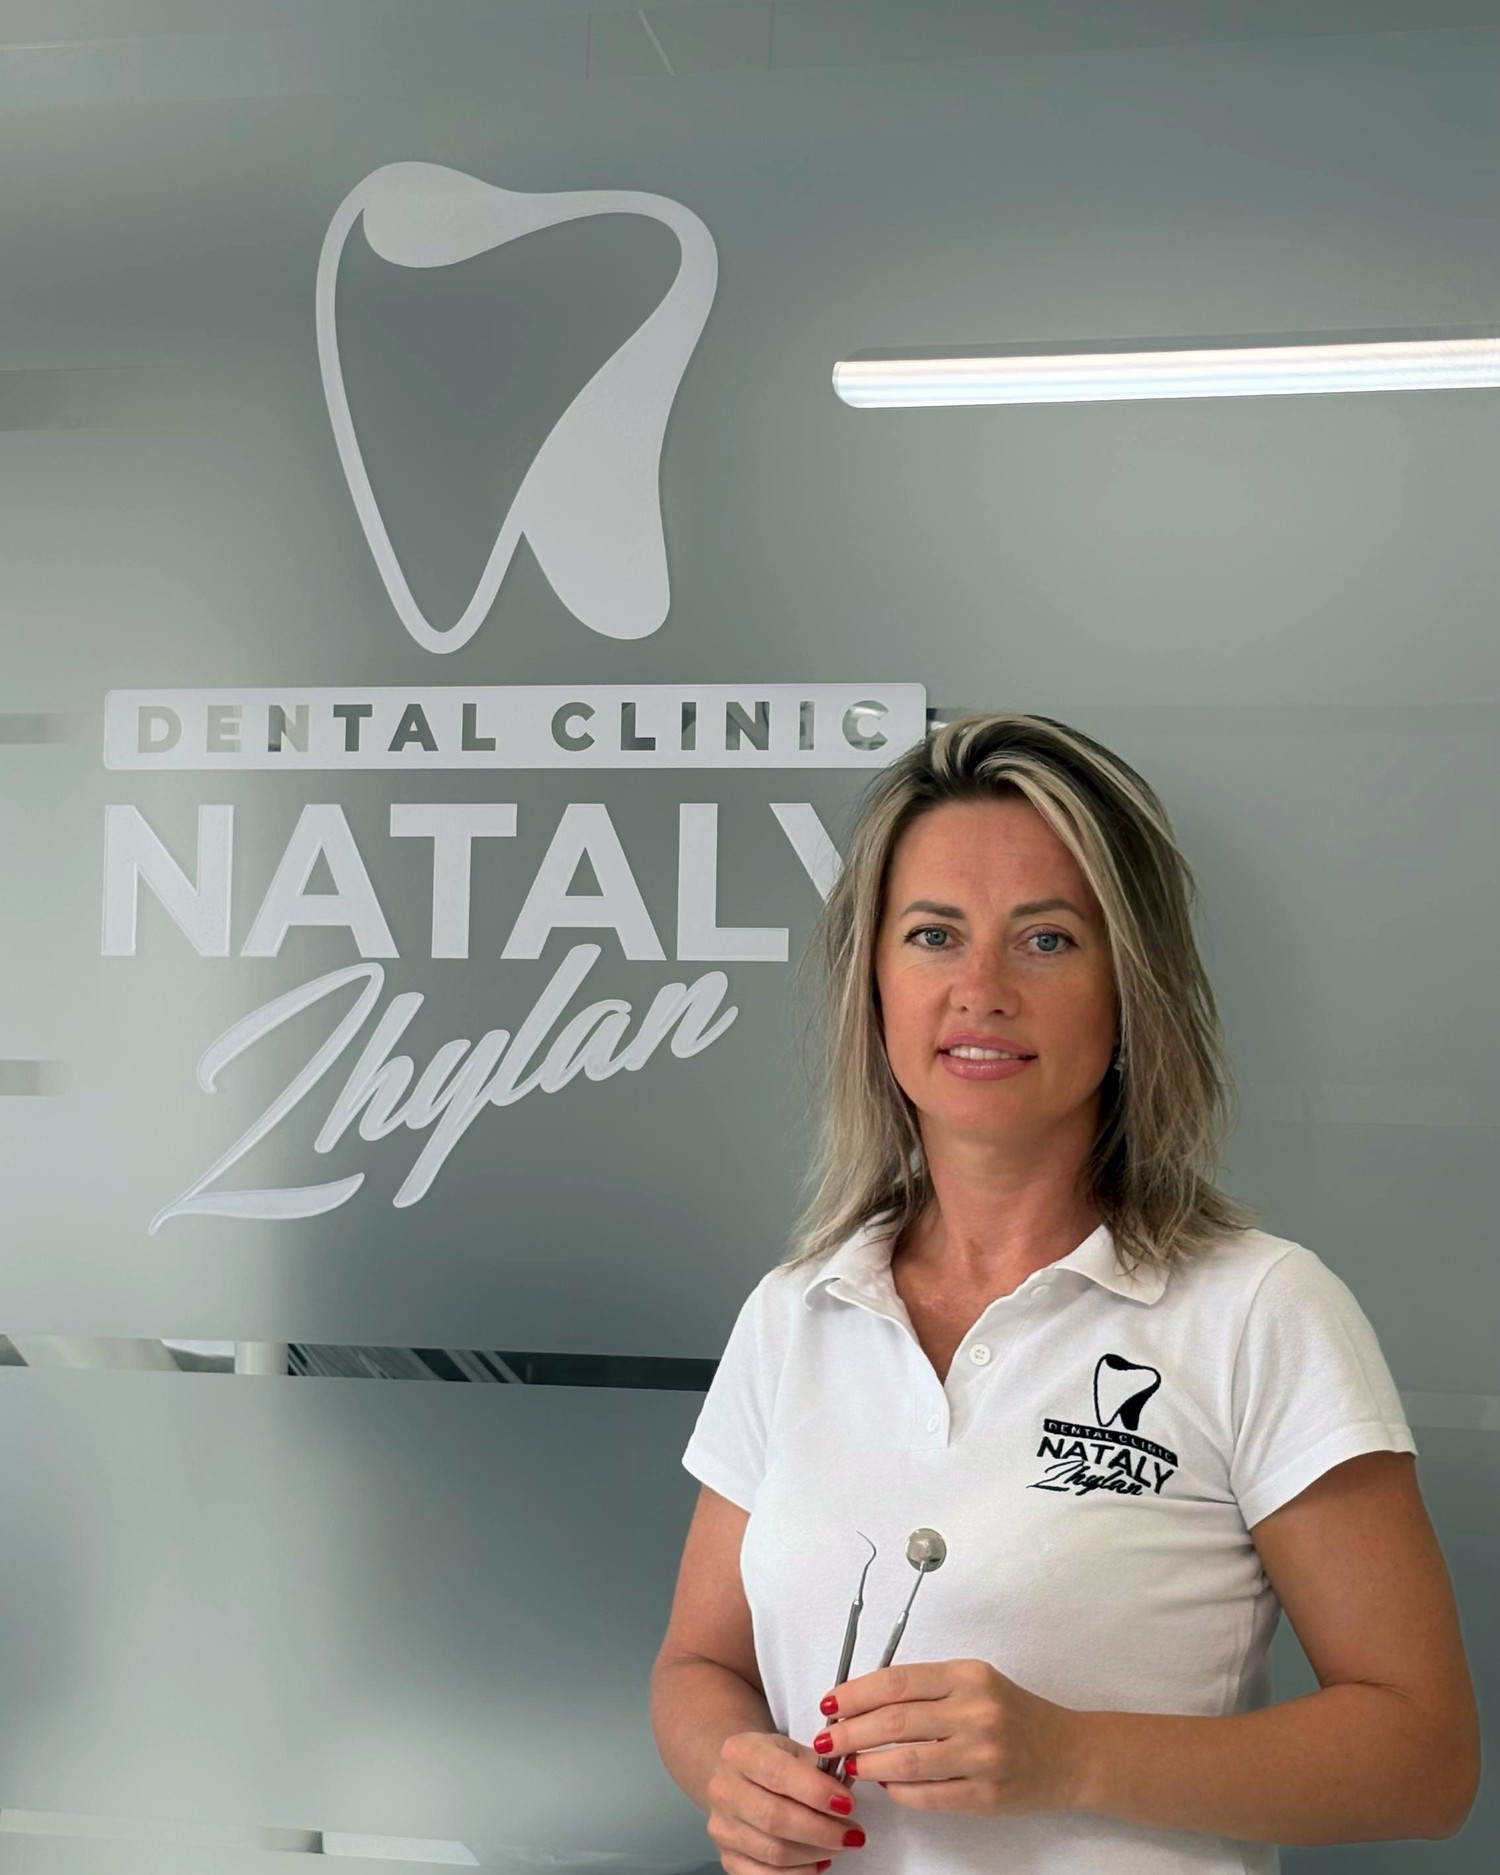
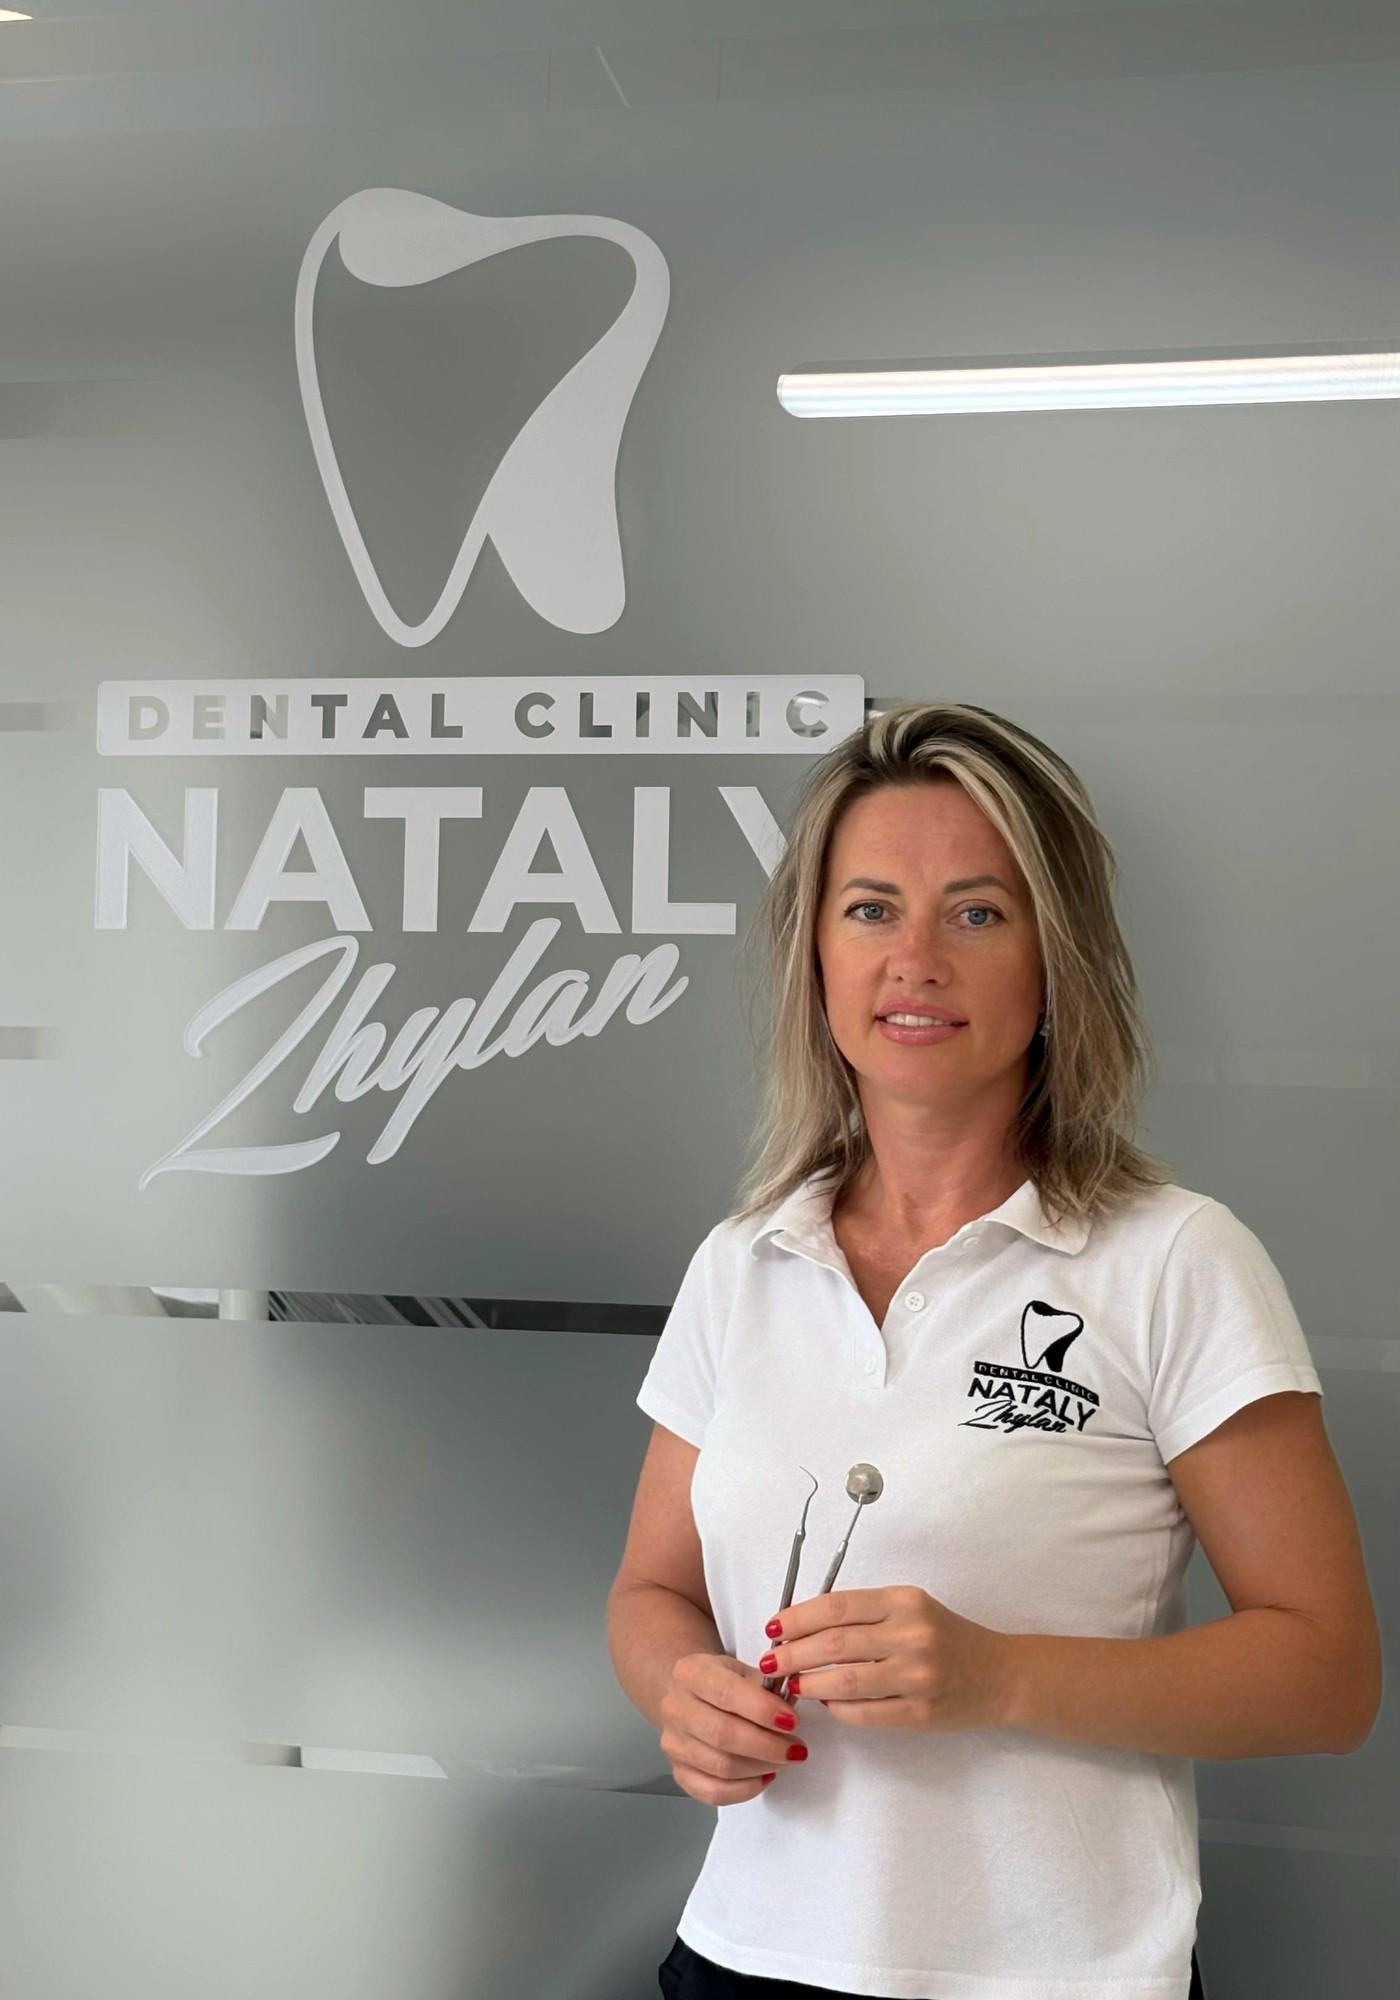
Ширший кадр на першому екрані, правки формулювань послуг
Фото перекадровано з оригіналу 2268×4032: замість 4:5 тепер 7:10
(1400×2000). У попередньому кадрі руки з інструментом опинялися за
межами знімка — тепер вони в кадрі повністю, разом із логотипом на
стіні та на поло. Рамка на сторінці змінена на ті самі пропорції,
на десктопі трохи вужча, щоб фото не переростало екран.

Формулювання за правками клініки: «Усі сучасні методи пломбування
кореневих каналів» → «Сучасні методи…», «Естетична художня
реставрація зубів» → «Художня реставрація зубів».

Картку для соцмереж перемальовано з новим кадром.

Claude-Session: https://claude.ai/code/session_0146WkEYk3Czcg6RxcMk6tHZ

diff --git a/src/components/sections/hero.tsx b/src/components/sections/hero.tsx
@@ -182,11 +182,13 @@ export function Hero() {
       </div>
 
       {/* ── The doctor ───────────────────────────────────
-          The frame keeps the photograph's own 4:5 at every width, so nothing
+          The frame keeps the photograph's own 7:10 at every width, so nothing
           is cropped: a fixed height used to swallow the bottom third of the
           picture on a phone and turn it into a 3:1 panorama on a desktop.
+          The file itself is a taller crop than before — at 4:5 her hands and
+          the instrument fell outside the frame.
           Full width on a phone, centred at its own size from lg. */}
-      <div className="relative mt-6 aspect-4/5 lg:mx-auto lg:mt-10 lg:w-[440px] lg:overflow-hidden lg:rounded-t-[28px] xl:w-[500px]">
+      <div className="relative mt-6 aspect-7/10 lg:mx-auto lg:mt-10 lg:w-[420px] lg:overflow-hidden lg:rounded-t-[28px] xl:w-[470px]">
         <Image
           src="/images/hero.jpg"
           alt={`${site.doctor} — лікар-стоматолог, ${site.name}`}
@@ -194,7 +196,7 @@ export function Hero() {
           /* The headline is the LCP element; this sits under it. */
           fetchPriority="low"
           quality={88}
-          sizes="(max-width: 1024px) 100vw, 500px"
+          sizes="(max-width: 1024px) 100vw, 470px"
           className="object-cover object-center"
         />
         <div

diff --git a/src/lib/content.ts b/src/lib/content.ts
@@ -18,8 +18,8 @@ export type Service = {
  */
 export const heroServices = [
   "Дитяча та доросла терапевтична стоматологія",
-  "Усі сучасні методи пломбування кореневих каналів",
-  "Естетична художня реставрація зубів",
+  "Сучасні методи пломбування кореневих каналів",
+  "Художня реставрація зубів",
   "Усі види протезування — знімне та незнімне",
   "Хірургічна стоматологія та імплантація",
   "Ортодонтичне лікування",
